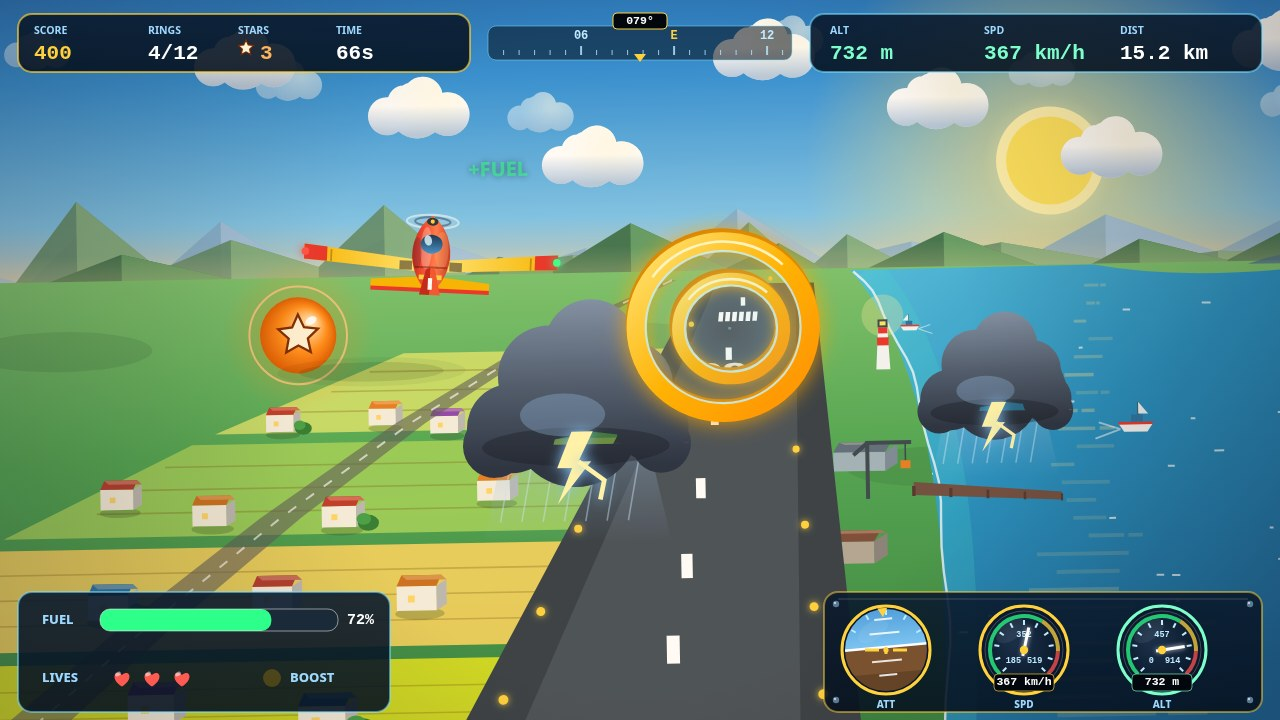
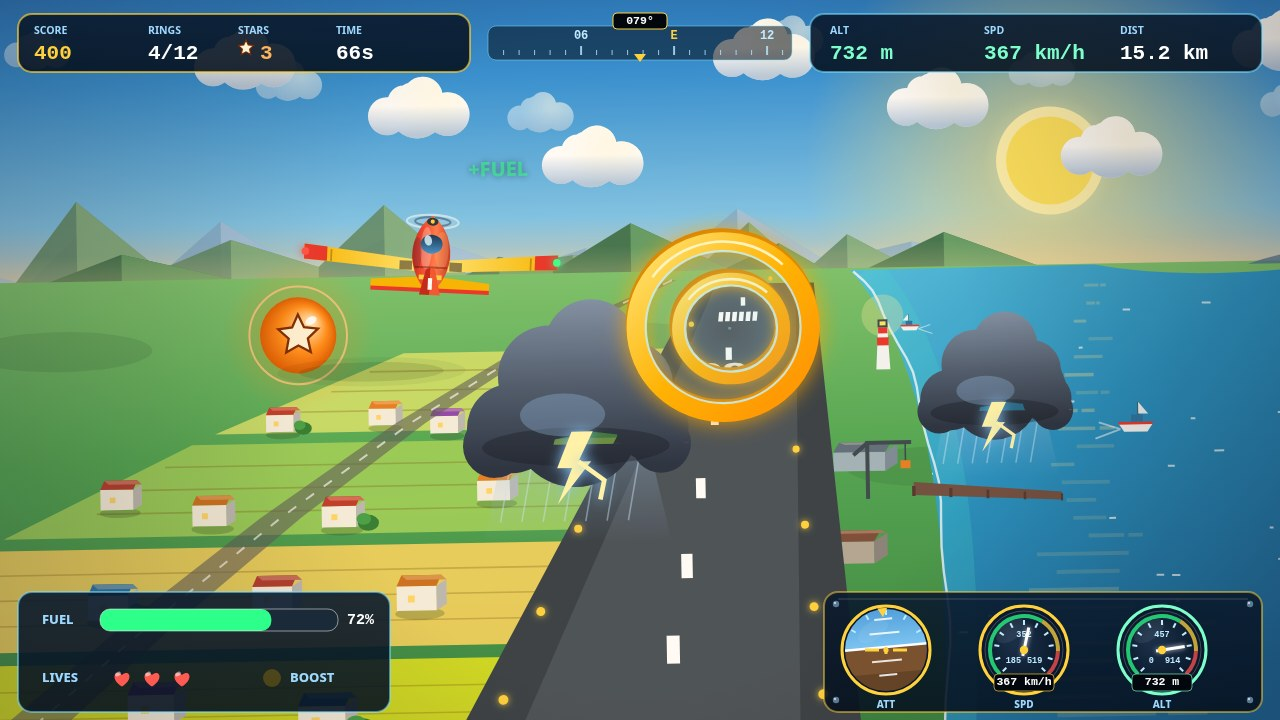
Scenery zones by route position (harbour, sea crossing, city, forest) and land-side-only far ridgeline

Changed region(s): [[0.75, 0.3056, 1.0, 0.3667]]

diff --git a/game/src/render.js b/game/src/render.js
@@ -12,6 +12,14 @@ function clamp01(v) {
   return Math.max(0, Math.min(1, v));
 }
 
+// Blend two #rrggbb colours (t in [0,1]) — used to crossfade the
+// scenery palettes between background zones.
+function lerpCol(a, b, t) {
+  const ca = [1, 3, 5].map(i => parseInt(a.substr(i, 2), 16));
+  const cb = [1, 3, 5].map(i => parseInt(b.substr(i, 2), 16));
+  return 'rgb(' + ca.map((v, i) => Math.round(v + (cb[i] - v) * t)).join(',') + ')';
+}
+
 export function createRenderer(canvas) {
   const ctx = canvas.getContext('2d');
   canvas.width = FIELD.width;
@@ -478,7 +486,7 @@ export function createRenderer(canvas) {
   // camPar shifts the vanishing point with the plane's lateral position
   // (full at the horizon, zero in the foreground) and gAltF narrows the
   // spread as altitude grows; both are set at the top of draw().
-  let camPar = 0, gAltF = 0;
+  let camPar = 0, gAltF = 0, seaShift = 0;
   function groundPoint(u, d, hor) {
     const y = hor + Math.pow(d, 1.35) * (H + 70 - hor);
     const vx = 640 + camPar * (1 - d);
@@ -490,11 +498,11 @@ export function createRenderer(canvas) {
   // the shadow tone, then each peak's sun-facing slope (the sun is on
   // the right, so slopes descending to the right catch the light) is
   // overpainted with the lit tone down to the base line.
-  function ridge(baseY, amp, seed, shadowCol, litCol, alpha, xoff = 0) {
+  function ridge(baseY, amp, seed, shadowCol, litCol, alpha, xoff = 0, xMax = W + 140) {
     const pts = [];
     let x = -140 + xoff;
     let i = 0;
-    while (x < W + 140) {
+    while (x < xMax) {
       const wdt = 90 + hash(seed + i) * 150;
       pts.push([x + wdt * 0.45, baseY - hash(seed + i * 3.7) * amp]);
       pts.push([x + wdt, baseY + 6 - hash(seed + i * 1.3) * amp * 0.3]);
@@ -506,7 +514,7 @@ export function createRenderer(canvas) {
     ctx.beginPath();
     ctx.moveTo(-140 + xoff, baseY + 30);
     for (const [px, py] of pts) ctx.lineTo(px, py);
-    ctx.lineTo(W + 140, baseY + 30);
+    ctx.lineTo(xMax, baseY + 30);
     ctx.closePath();
     ctx.fill();
     ctx.fillStyle = litCol;
@@ -532,7 +540,7 @@ export function createRenderer(canvas) {
   function shorePoint(t, hor, shX) {
     const mt = 1 - t;
     return [
-      mt * mt * 752 + 2 * mt * t * 864 + t * t * 834 + shX,
+      mt * mt * 752 + 2 * mt * t * 864 + t * t * 834 + shX + seaShift,
       mt * mt * (hor + 2) + 2 * mt * t * (hor + 130) + t * t * (H + 70),
     ];
   }
@@ -570,6 +578,53 @@ export function createRenderer(canvas) {
     ctx.moveTo(x - w / 2 + rx, ry); ctx.lineTo(x + w / 2 + rx, ry);
     ctx.lineTo(x + w / 2 + dx, y - h - dy); ctx.lineTo(x - w / 2 + dx, y - h - dy);
     ctx.closePath(); ctx.fill();
+  }
+
+  // One recycled terrain part, drawn in the style of a scenery zone:
+  // 0 harbour suburb house, 1 open sea (no land parts at all), 2 city
+  // block, 3 forest tree clump. The caller passes the part's own zone
+  // and blend alpha, so old and new zone parts interleave naturally
+  // while a changeover streams past.
+  function townElement(i, x, y, sc, w, h, zone, alpha, roof) {
+    if (alpha <= 0.01 || zone === 1) return;
+    ctx.save();
+    ctx.globalAlpha = alpha;
+    if (zone === 2) {
+      // city block: taller and wider, cool walls, a grid of windows
+      const bw = w * 1.2, bh = h * 2.3;
+      isoBox(x, y, bw, bh, 13 * sc, i % 2 ? '#cfd8dc' : '#aebfc7', i % 3 ? '#546e7a' : '#6d4c41');
+      ctx.fillStyle = '#ffd76a';
+      for (let r2 = 0; r2 < 3; r2++) {
+        for (let c2 = 0; c2 < 2; c2++) {
+          if (hash(i * 31 + r2 * 7 + c2 * 13) > 0.45) {
+            ctx.fillRect(x - bw * 0.30 + c2 * bw * 0.32, y - bh * (0.78 - r2 * 0.22), 4 * sc, 4.6 * sc);
+          }
+        }
+      }
+    } else if (zone === 3) {
+      // forest: canopy blobs on a short trunk
+      ctx.fillStyle = '#5d4037';
+      ctx.fillRect(x - 1.6 * sc, y - 6 * sc, 3.2 * sc, 6 * sc);
+      ctx.fillStyle = '#2e7d32';
+      ctx.beginPath(); ctx.ellipse(x, y - 11 * sc, 13 * sc, 9 * sc, 0, 0, 7); ctx.fill();
+      ctx.fillStyle = '#43a047';
+      ctx.beginPath(); ctx.ellipse(x - 6 * sc, y - 15 * sc, 8.5 * sc, 6.5 * sc, 0, 0, 7); ctx.fill();
+      ctx.beginPath(); ctx.ellipse(x + 6.5 * sc, y - 14 * sc, 7.5 * sc, 6 * sc, 0, 0, 7); ctx.fill();
+      ctx.fillStyle = '#66bb6a';
+      ctx.beginPath(); ctx.ellipse(x - 1 * sc, y - 17 * sc, 5 * sc, 3.6 * sc, 0, 0, 7); ctx.fill();
+    } else {
+      // harbour suburb house with a lit window and the odd garden tree
+      isoBox(x, y, w, h, 12 * sc, '#f5efe0', roof);
+      ctx.fillStyle = '#ffd76a';
+      ctx.fillRect(x - w * 0.22, y - h * 0.62, 4.5 * sc, 4.5 * sc);
+      if (i % 3 === 0) {
+        ctx.fillStyle = '#2e7d32';
+        ctx.beginPath(); ctx.ellipse(x + w * 0.85, y - 3 * sc, 8 * sc, 6 * sc, 0, 0, 7); ctx.fill();
+        ctx.fillStyle = '#43a047';
+        ctx.beginPath(); ctx.ellipse(x + w * 0.72, y - 6 * sc, 5.5 * sc, 4.5 * sc, 0, 0, 7); ctx.fill();
+      }
+    }
+    ctx.restore();
   }
 
   // Storm cell: its own tall, irregular cumulonimbus silhouette (not
@@ -675,6 +730,41 @@ export function createRenderer(canvas) {
     gAltF = altF;
     const shX = camPar * 0.85;
 
+    // ===== scenery zones along the route =====
+    // The world flows endlessly the way the course items do: terrain
+    // parts sit along the forward axis, stream past, and recycle to
+    // the far end. Zones are a property of ROUTE POSITION, not of the
+    // screen, and they are ordered as a journey: 0 home coast and
+    // harbour → 1 open-sea crossing → 2 city landfall → 3 forest →
+    // loop back to the coast, one zone per 12 nm leg. A part's zone
+    // comes from its own route position (camera distance + how far
+    // ahead of the plane it is), so during a changeover the far parts
+    // are re-placed in the new zone first and old and new parts
+    // interleave as they stream past — no stitched backdrop, no
+    // screen-space crossfade. Entering the sea leg, land parts stop
+    // being re-spawned ahead and the coastline itself slides away
+    // behind (seaShift), leaving open water on all sides until the
+    // next landfall's parts appear ahead.
+    const ZONE_LEN = 12, LOOKAHEAD = 1.2;
+    function zoneAt(route) {
+      const p = ((route / ZONE_LEN) % 4 + 4) % 4;
+      const a = Math.floor(p), fr = p - a;
+      const bl = clamp01((fr - 0.82) / 0.18);
+      const f = bl * bl * (3 - 2 * bl);
+      const b = (a + 1) % 4;
+      return {a, b, f, wSea: a === 1 ? 1 - f : b === 1 ? f : 0};
+    }
+    // palette mix for one part, given its zone reading
+    const pMix = (cols, z) => z.f <= 0 ? cols[z.a] : lerpCol(cols[z.a], cols[z.b], z.f);
+    // the camera's own zone reading drives whole-world features that
+    // have a single position (coastline, runway, far ridgeline)
+    const camZ = zoneAt(s.dist);
+    const seaW = camZ.wSea;
+    const wts = [0, 0, 0, 0];
+    wts[camZ.a] = 1 - camZ.f;
+    wts[camZ.b] += camZ.f;
+    seaShift = -seaW * 1200;
+
     // ===== world, rolled slightly with the bank around the horizon =====
     ctx.save();
     ctx.translate(640, hor);
@@ -714,11 +804,17 @@ export function createRenderer(canvas) {
       cloud(cx, cy, 0.95, '#ffffff');
     }
 
-    // layered mountain ridgelines: two-tone faces, hazier with distance,
-    // drifting slightly against the camera for parallax
-    ridge(hor + 4, 66, 11.3, '#7ea8cc', '#a8c8e4', 0.75, camPar * 0.18);
-    ridge(hor + 6, 88, 47.9, '#5d8a68', '#84b184', 0.9, camPar * 0.30);
-    ridge(hor + 8, 58, 83.1, '#3f7350', '#5f9c66', 1, camPar * 0.42);
+    // layered far ridgelines on the LAND side only: the layers end at
+    // the coastline, so the horizon over the sea stays open water and
+    // sky — no fixed ridge backdrop spanning the whole frame. As the
+    // sea leg takes over (seaW → 1) the coastline itself exits left,
+    // the ridge span shrinks with it and the layers fade out entirely.
+    const ridgeMax = 746 + shX + seaShift;
+    if (seaW < 0.99) {
+      ridge(hor + 4, 66, 11.3, '#7ea8cc', '#a8c8e4', 0.75 * (1 - seaW), camPar * 0.18, ridgeMax);
+      ridge(hor + 6, 88, 47.9, '#5d8a68', '#84b184', 0.9 * (1 - seaW), camPar * 0.30, ridgeMax);
+      ridge(hor + 8, 58, 83.1, '#3f7350', '#5f9c66', 1 - seaW, camPar * 0.42, ridgeMax);
+    }
     // golden haze band on the horizon
     const hz = ctx.createLinearGradient(0, hor - 26, 0, hor + 16);
     hz.addColorStop(0, 'rgba(255,227,161,0)');
@@ -739,20 +835,30 @@ export function createRenderer(canvas) {
     }
 
     // patchwork fields, left, in ground perspective; the rows scroll
-    // toward the viewer with distance flown and cycle their colours
-    const fieldCols = ['#f2c230', '#e8a91c', '#cfe06a', '#9ccf5a', '#f4d35e', '#d9e021'];
+    // toward the viewer with distance flown and cycle their colours.
+    // Each row takes the palette of the zone at its own route
+    // position (harbour farmland → urban plots → forest meadow), and
+    // fades out as its position turns to open sea.
+    const fieldPals = [
+      ['#f2c230', '#e8a91c', '#cfe06a', '#9ccf5a', '#f4d35e', '#d9e021'],
+      ['#f2c230', '#e8a91c', '#cfe06a', '#9ccf5a', '#f4d35e', '#d9e021'],
+      ['#a3a08e', '#8f8b7c', '#9c968a', '#7e7a6e', '#aba48f', '#8a8578'],
+      ['#3e8e4f', '#35794a', '#4da653', '#2c7a3e', '#5cb85c', '#2f6b33'],
+    ];
     const fscroll = (s.dist * 0.045) % 0.185;
     const fcycle = Math.floor(s.dist * 0.045 / 0.185);
     for (let row = 0; row < 5; row++) {
       const d0 = 0.06 + row * 0.185 + fscroll, d1 = d0 + 0.165;
       const [ax, ay] = groundPoint(-1.12, d0, hor), [bx, by] = groundPoint(-0.17, d0, hor);
       const [cx2, cy2] = groundPoint(-0.17, d1, hor), [dx2, dy2] = groundPoint(-1.12, d1, hor);
-      ctx.fillStyle = fieldCols[(row + 1 + fcycle) % fieldCols.length];
-      ctx.globalAlpha = 0.92;
+      const rowZ = zoneAt(s.dist + (1 - (d0 + d1) / 2) * LOOKAHEAD);
+      const ci = (row + 1 + fcycle) % 6;
+      ctx.fillStyle = pMix(fieldPals.map(p => p[ci]), rowZ);
+      ctx.globalAlpha = 0.92 * (1 - rowZ.wSea);
       ctx.beginPath();
       ctx.moveTo(ax, ay); ctx.lineTo(bx, by); ctx.lineTo(cx2, cy2); ctx.lineTo(dx2, dy2);
       ctx.closePath(); ctx.fill();
-      ctx.globalAlpha = 1;
+      ctx.globalAlpha = 1 - rowZ.wSea;
       ctx.strokeStyle = 'rgba(120,84,20,0.30)';
       ctx.lineWidth = 1.6;
       for (let rI = 1; rI < 4; rI++) {
@@ -762,9 +868,10 @@ export function createRenderer(canvas) {
       }
     }
 
-    // town, lower-left: isometric houses that shrink toward the horizon
-    // and drift slowly past with distance flown, each with a shadow and
-    // a lit window; tree clumps fill the gaps between rows
+    // town, lower-left: recycled terrain parts that shrink toward the
+    // horizon and drift slowly past with distance flown. Each part is
+    // drawn in the style of the zone at its own route position, so a
+    // changeover streams through the lattice part by part.
     const roofs = ['#c0392b', '#e67e22', '#8e44ad', '#2471a3', '#b03a2e', '#ca6f1e'];
     for (let i = 0; i < 16; i++) {
       const u = -1.02 + (i % 4) * 0.21 + hash(i * 7) * 0.05;
@@ -772,19 +879,18 @@ export function createRenderer(canvas) {
       const [hx, hy] = groundPoint(u, d, hor);
       const sc = 0.45 + d * 1.5;
       const w = 26 * sc, h = 16 * sc;
+      const pz = zoneAt(s.dist + (1 - d) * LOOKAHEAD);
       ctx.fillStyle = 'rgba(30,60,30,0.25)';
+      ctx.globalAlpha = 1 - pz.wSea;
       ctx.beginPath(); ctx.ellipse(hx + 3, hy + 3, w * 0.62, 4 * sc, 0, 0, 7); ctx.fill();
-      isoBox(hx, hy, w, h, 12 * sc, '#f5efe0', roofs[i % roofs.length]);
-      ctx.fillStyle = '#ffd76a';
-      ctx.fillRect(hx - w * 0.22, hy - h * 0.62, 4.5 * sc, 4.5 * sc);
-      if (i % 3 === 0) {
-        ctx.fillStyle = '#2e7d32';
-        ctx.beginPath(); ctx.ellipse(hx + w * 0.85, hy - 3 * sc, 8 * sc, 6 * sc, 0, 0, 7); ctx.fill();
-        ctx.fillStyle = '#43a047';
-        ctx.beginPath(); ctx.ellipse(hx + w * 0.72, hy - 6 * sc, 5.5 * sc, 4.5 * sc, 0, 0, 7); ctx.fill();
-      }
+      ctx.globalAlpha = 1;
+      townElement(i, hx, hy, sc, w, h, pz.a, 1 - pz.f, roofs[i % roofs.length]);
+      if (pz.f > 0) townElement(i, hx, hy, sc, w, h, pz.b, pz.f, roofs[i % roofs.length]);
     }
-    // harbour warehouses and a dock crane on the shore side of the runway
+    // harbour warehouses and a dock crane on the shore side of the
+    // runway — home-harbour features, present only in the home zone
+    ctx.save();
+    ctx.globalAlpha = wts[0];
     const [w1x, w1y] = groundPoint(0.24, 0.66, hor);
     isoBox(w1x, w1y, 56, 22, 24, '#b0a696', '#7a4a3a');
     const [w2x, w2y] = groundPoint(0.30, 0.50, hor);
@@ -800,10 +906,13 @@ export function createRenderer(canvas) {
     ctx.beginPath(); ctx.moveTo(crx + 38, cry - 56); ctx.lineTo(crx + 38, cry - 38); ctx.stroke();
     ctx.fillStyle = '#e67e22';
     ctx.fillRect(crx + 33, cry - 38, 10, 8);
+    ctx.restore();
     // road through the town: a ground-projected strip at constant u,
     // threaded between two house columns, so it recedes straight to
     // the vanishing point like the runway does — the old diagonal
     // sweep across the frame made the ground read as sliding sideways
+    ctx.save();
+    ctx.globalAlpha = wts[0];
     ctx.fillStyle = 'rgba(90,90,90,0.6)';
     ctx.beginPath();
     for (let i = 0; i <= 6; i++) {
@@ -825,14 +934,15 @@ export function createRenderer(canvas) {
     }
     ctx.stroke();
     ctx.setLineDash([]);
+    ctx.restore();
 
     // ===== harbor: real water to the horizon on the right =====
     const waterPath = new Path2D();
-    waterPath.moveTo(752 + shX, hor + 2);
-    waterPath.quadraticCurveTo(864 + shX, hor + 130, 834 + shX, H + 70);
+    waterPath.moveTo(752 + seaShift + shX, hor + 2);
+    waterPath.quadraticCurveTo(864 + seaShift + shX, hor + 130, 834 + seaShift + shX, H + 70);
     waterPath.lineTo(1420, H + 70);
     waterPath.lineTo(1420, hor - 8);
-    waterPath.quadraticCurveTo(1120 + shX, hor + 26, 996 + shX, hor + 1);
+    waterPath.quadraticCurveTo(1120 + seaShift * 0.4 + shX, hor + 26, 996 + seaShift * 0.4 + shX, hor + 1);
     waterPath.closePath();
     const wg2 = ctx.createLinearGradient(760, hor, 1120, H + 60);
     wg2.addColorStop(0, '#57c7e8'); wg2.addColorStop(0.5, '#1f8fc4'); wg2.addColorStop(1, '#0f5f96');
@@ -841,9 +951,25 @@ export function createRenderer(canvas) {
     // island silhouette on the horizon
     ctx.fillStyle = 'rgba(70,110,140,0.75)';
     ctx.beginPath();
-    ctx.moveTo(1150 + shX, hor + 3);
-    ctx.quadraticCurveTo(1235 + shX, hor - 26, 1330 + shX, hor + 3);
+    ctx.moveTo(1150 + seaShift * 0.4 + shX, hor + 3);
+    ctx.quadraticCurveTo(1235 + seaShift * 0.4 + shX, hor - 26, 1330 + seaShift * 0.4 + shX, hor + 3);
     ctx.closePath(); ctx.fill();
+    // open-sea islets: they fade in with the sea leg, when the view is
+    // water in every direction and islands and boats are the scenery
+    if (seaW > 0.01) {
+      ctx.save();
+      ctx.globalAlpha = seaW * 0.85;
+      ctx.fillStyle = 'rgba(70,110,140,0.75)';
+      ctx.beginPath();
+      ctx.moveTo(620 + shX * 0.5, hor + 3);
+      ctx.quadraticCurveTo(672 + shX * 0.5, hor - 15, 730 + shX * 0.5, hor + 3);
+      ctx.closePath(); ctx.fill();
+      ctx.beginPath();
+      ctx.moveTo(905 + shX * 0.5, hor + 3);
+      ctx.quadraticCurveTo(938 + shX * 0.5, hor - 10, 975 + shX * 0.5, hor + 3);
+      ctx.closePath(); ctx.fill();
+      ctx.restore();
+    }
     // everything wet stays inside the water from here on
     ctx.save();
     ctx.clip(waterPath);
@@ -888,7 +1014,10 @@ export function createRenderer(canvas) {
     }
     ctx.stroke();
     // pier: rooted on the land side of the shoreline, tapering as it
-    // reaches out over the water; its footing drifts slowly with dist
+    // reaches out over the water; its footing drifts slowly with dist.
+    // A home-harbour feature: it fades with the home zone's weight.
+    ctx.save();
+    ctx.globalAlpha = wts[0];
     const pierT = 0.54 + ((s.dist * 0.01) % 0.08);
     const [qx, qy] = shorePoint(pierT, hor, shX);
     const px0 = qx - 20, py0 = qy + 4, px1 = qx + 128, py1 = qy + 14;
@@ -906,12 +1035,16 @@ export function createRenderer(canvas) {
       ctx.lineTo(px0 + (px1 - px0) * t, py0 + (py1 - py0) * t + 8 - t * 3);
       ctx.stroke();
     }
+    ctx.restore();
     // boats with wakes, creeping along their lanes as distance passes
     const [b1x, b1y] = groundPoint(1.02 - ((s.dist * 0.010) % 0.45), 0.42, hor);
     boat(b1x, b1y, 0.9, 1);
     const [b2x, b2y] = groundPoint(0.66 + ((s.dist * 0.006) % 0.30), 0.20, hor);
     boat(b2x, b2y, 0.5, -1);
-    // lighthouse on the shore point
+    // lighthouse on the shore point — a home-harbour landmark, so it
+    // too fades with the home zone's weight
+    ctx.save();
+    ctx.globalAlpha = wts[0];
     const [lx2, ly2] = groundPoint(0.47, 0.30, hor);
     const lh = 54;
     ctx.fillStyle = 'rgba(255,235,160,0.30)';
@@ -928,10 +1061,14 @@ export function createRenderer(canvas) {
     ctx.fillRect(lx2 - 5, ly2 - lh + 4, 10, 8);
     ctx.fillStyle = '#ffe45e';
     ctx.fillRect(lx2 - 3, ly2 - lh + 6, 6, 4);
+    ctx.restore();
 
     // ===== runway: through the bottom edge, perspective markings =====
     // The strip converges on the parallaxed vanishing point up top and
-    // stays centred on 640 where it leaves the bottom edge.
+    // stays centred on 640 where it leaves the bottom edge. It is the
+    // home airfield's strip, so it fades with the home zone's weight.
+    ctx.save();
+    ctx.globalAlpha = wts[0];
     const rTopX = 640 + camPar, rBotX = 640;
     ctx.fillStyle = '#333d47';
     ctx.beginPath();
@@ -965,10 +1102,9 @@ export function createRenderer(canvas) {
       ctx.save();
       ctx.translate(nx, ny);
       ctx.scale(1.45, 0.72);
-      ctx.globalAlpha = 0.92;
+      ctx.globalAlpha *= 0.92;
       text('09', 0, 0, 30, '#ffffff');
       ctx.restore();
-      ctx.globalAlpha = 1;
     }
     // centreline dashes scrolling with distance flown
     const phase = (s.dist * 1.4) % 1;
@@ -991,6 +1127,7 @@ export function createRenderer(canvas) {
       ctx.beginPath(); ctx.arc(ex, ey, 2 + d * 3.4, 0, 7); ctx.fill();
       ctx.beginPath(); ctx.arc(fx2, fy2, 2 + d * 3.4, 0, 7); ctx.fill();
     }
+    ctx.restore();
     ctx.restore();
 
     // ===== items, far to near =====
